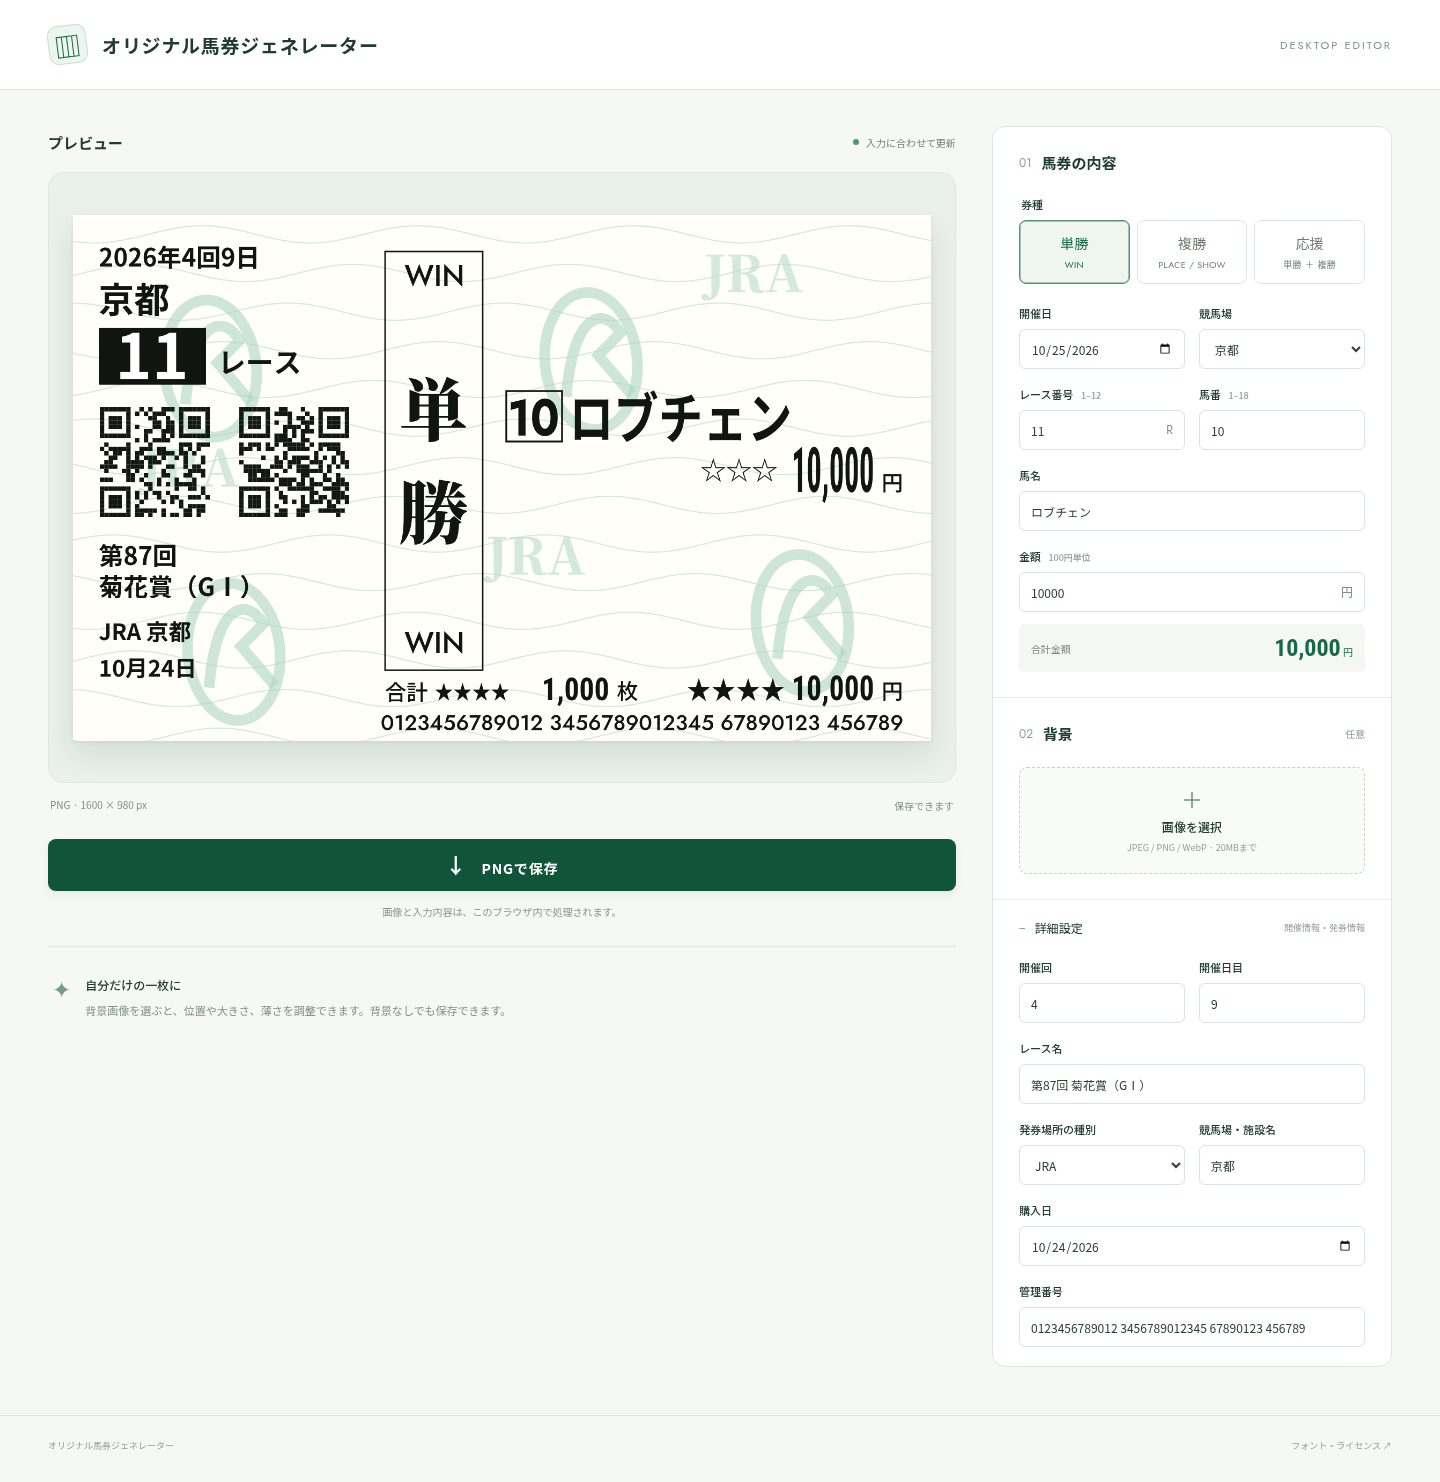
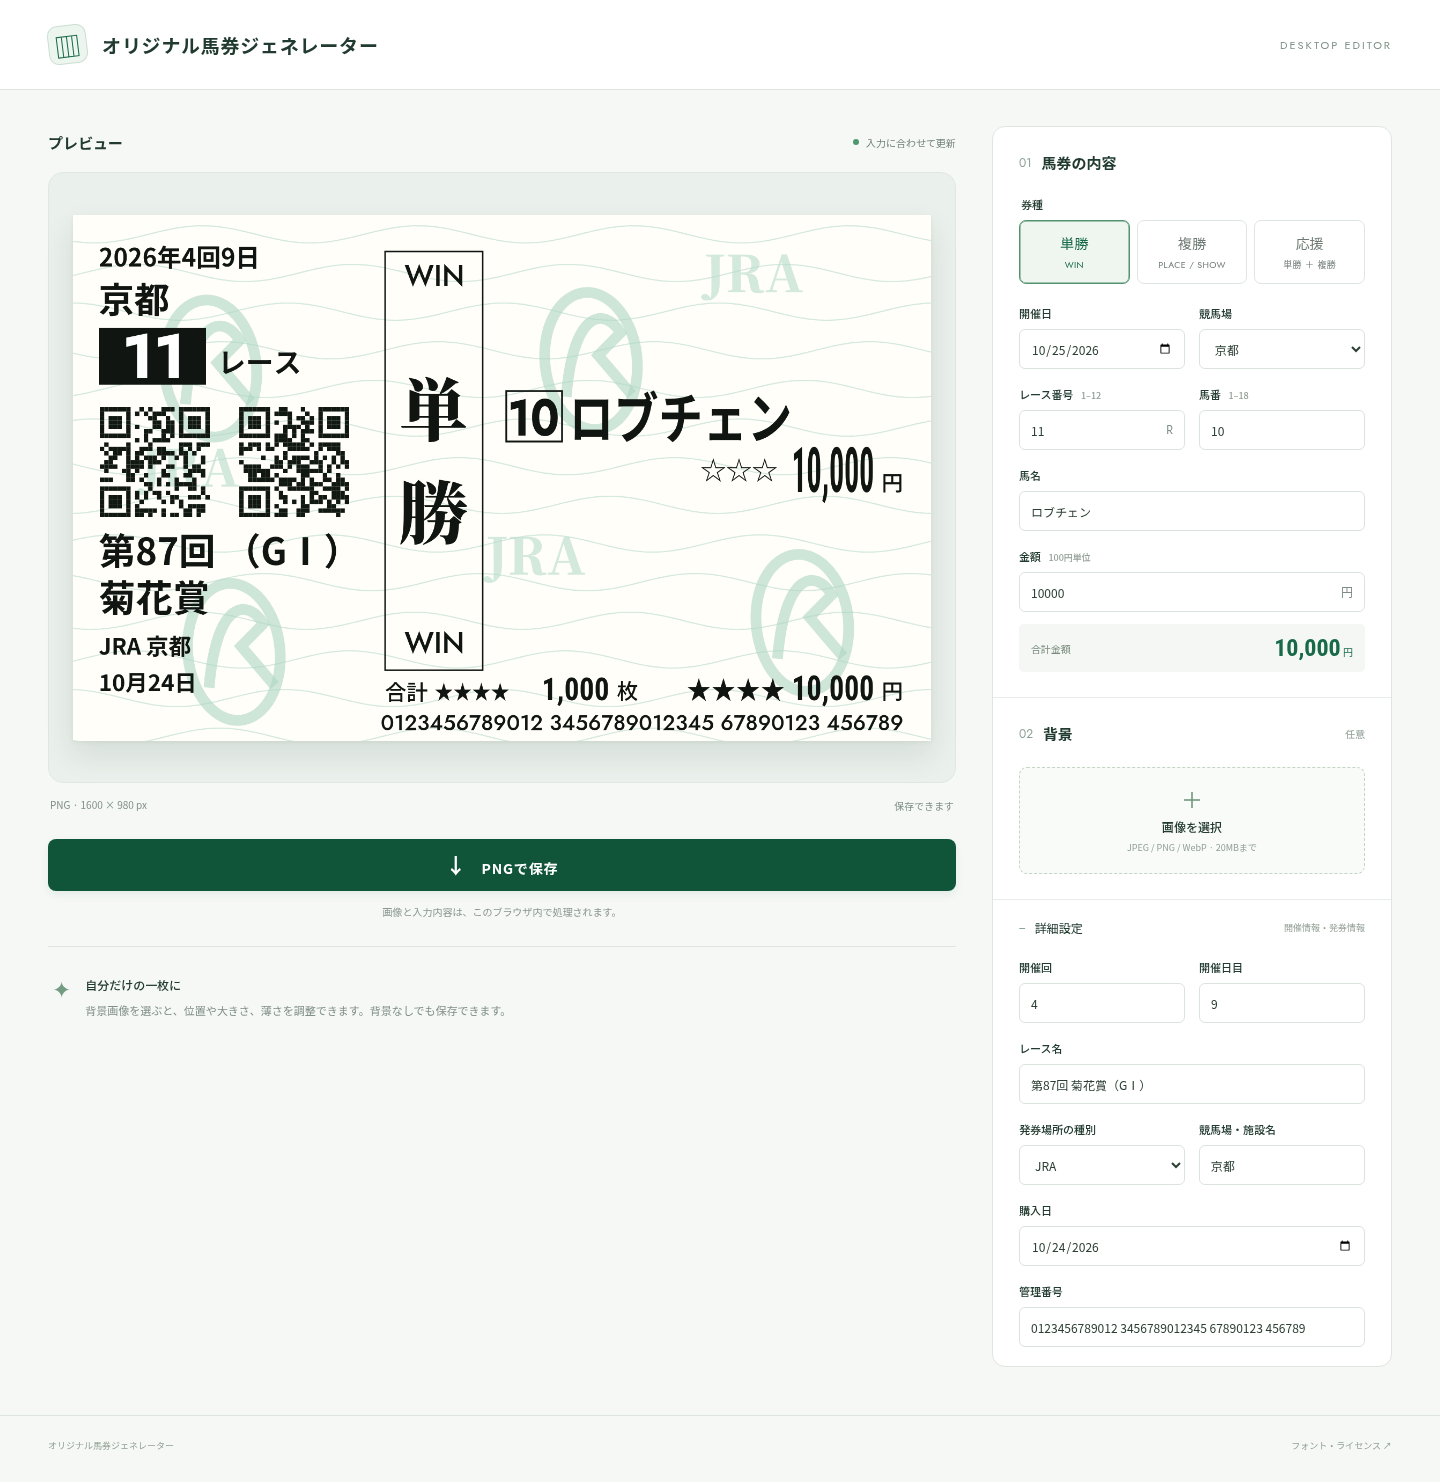
Restore race numeral font and enlarge graded race titles

Changed region(s): [[0.0625, 0.3414, 0.2188, 0.4656], [0.0938, 0.2173, 0.125, 0.2483]]

diff --git a/app.js b/app.js
@@ -165,12 +165,19 @@
     const year=d.date.split('-')[0];
     text(`${year}年${d.meeting}回${d.day}日`,24,48,23,'sans',700,250);
     text(`${d.venue}`,24,91,33,'sans',700,230);
-    blackBox(24,105,100,53);centeredText(d.race,74,131.5,58,'sans',700,88,'#fff');text('レース',135,147,26,'sans',700,136);
+    blackBox(24,105,100,53);centeredText(d.race,74,131.5,58,'number',700,88,'#fff');text('レース',135,147,26,'sans',700,136);
     decorativeCode(25,179,2546789);decorativeCode(155,179,983715);
-    const title=d.raceName.trim(), breakAt=title.indexOf('回');
-    const titleLines=breakAt>=0?[title.slice(0,breakAt+1),title.slice(breakAt+1).trim()].filter(Boolean):title?[title]:[];
-    titleLines.forEach((part,index)=>text(part,24,326+index*29,23,'sans',700,244));
-    const issueY=titleLines.length>1?396:367;
+    const title=d.raceName.trim();
+    const gradePattern=/[（(]\s*(?:[GＧ]|Jpn)\s*(?:[123１２３]|[ⅠⅡⅢ]|I{1,3})\s*[）)]/i;
+    const grade=title.match(gradePattern)?.[0] || '';
+    const plainTitle=title.includes('回')?title.replace(gradePattern,'').trim():title;
+    const breakAt=plainTitle.indexOf('回');
+    const titleLines=breakAt>=0?[
+      plainTitle.slice(0,breakAt+1)+(grade?' '+grade:''),
+      plainTitle.slice(breakAt+1).trim()
+    ].filter(Boolean):title?[title]:[];
+    titleLines.forEach((part,index)=>text(part,24,326+index*43.5,34.5,'sans',700,244));
+    const issueY=titleLines.length>1?409.5:367;
     text(`${d.issueType} ${d.issuePlace}`,24,issueY,21,'sans',700,244);
     const [,purchaseMonth,purchaseDay]=d.purchaseDate.split('-');
     text(`${Number(purchaseMonth)}月${Number(purchaseDay)}日`,24,issueY+34,21,'sans',700,244);

diff --git a/docs/VERIFICATION.md b/docs/VERIFICATION.md
@@ -79,3 +79,10 @@
 - レース名は最初の「回」の直後で改行し、最大2行で表示。「回」がない場合は1行、未入力の場合は表示しない。
 - 発券場所の下に購入日を「M月D日」で表示。購入日は開催日から独立した必須入力で、日本時間の当日が初期値。
 - Chromiumで3券種の書体、タイトルの各パターン、JRA/WINS、月日のゼロ埋め除去、日付の独立性、未入力時のエラー・保存停止・直前プレビュー維持を確認。各行が重ならず券面内に収まることを描画座標とPNGで確認。
+
+## レース番号復帰・レース名拡大・グレード移動（2026-10-19）
+
+- レース番号のみJost 700へ戻し、その他の左側印字はゴシック体を維持。
+- 回数表記とレース名を23pxから34.5論理px（1.5倍）に拡大し、行間と発券場所・購入日の位置も調整。
+- 「第87回 菊花賞（GⅠ）」を上段「第87回 （GⅠ）」、下段「菊花賞」に整形。半角・全角括弧、アラビア数字・ローマ数字、全角G・数字、Jpn表記に対応。「回」がないタイトルは元の1行表示を維持。
+- Chromiumで3券種の書体・拡大率・グレード移動・行間を描画座標とPNGで確認。グレードなし、「回」なし、空欄、長いレース名も確認。
